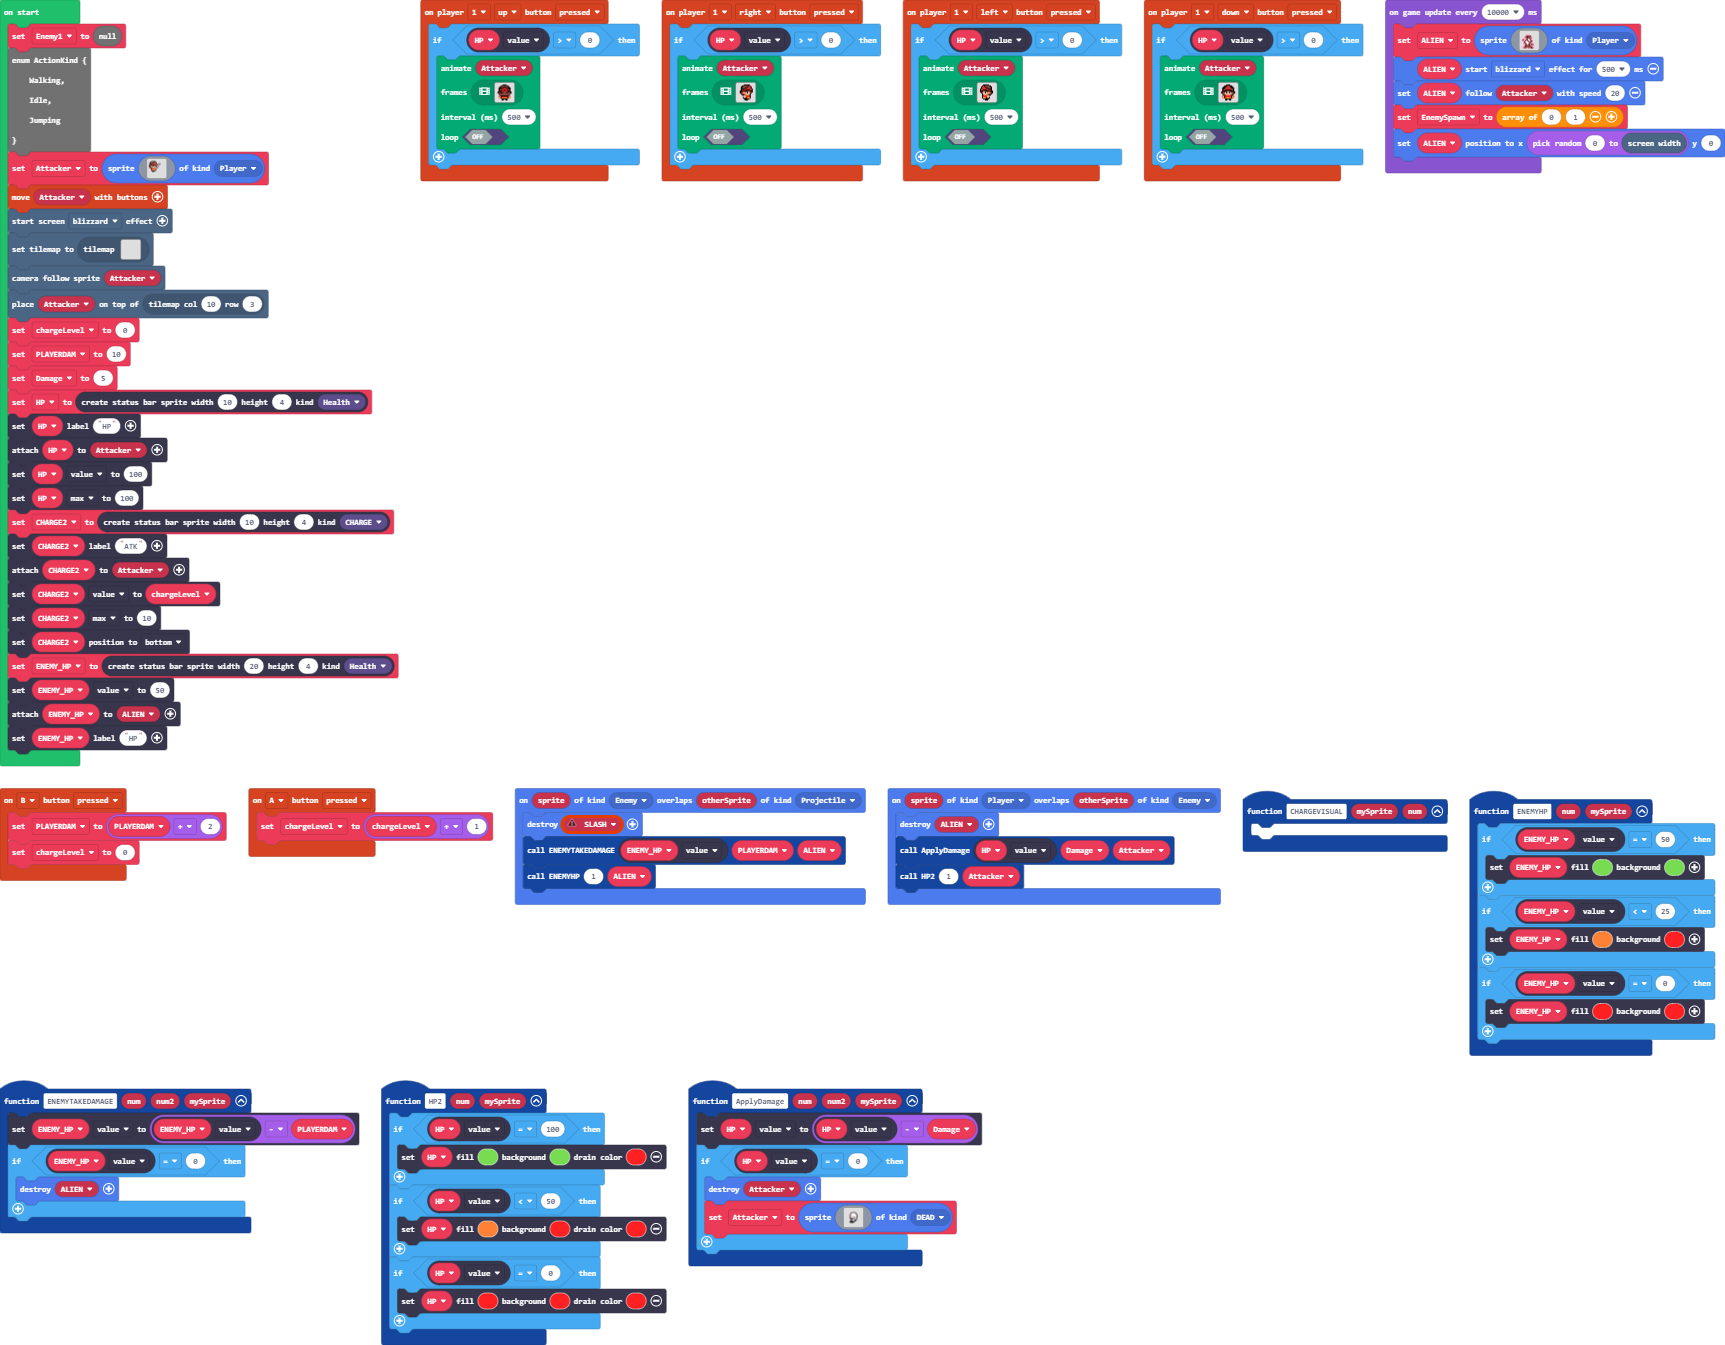
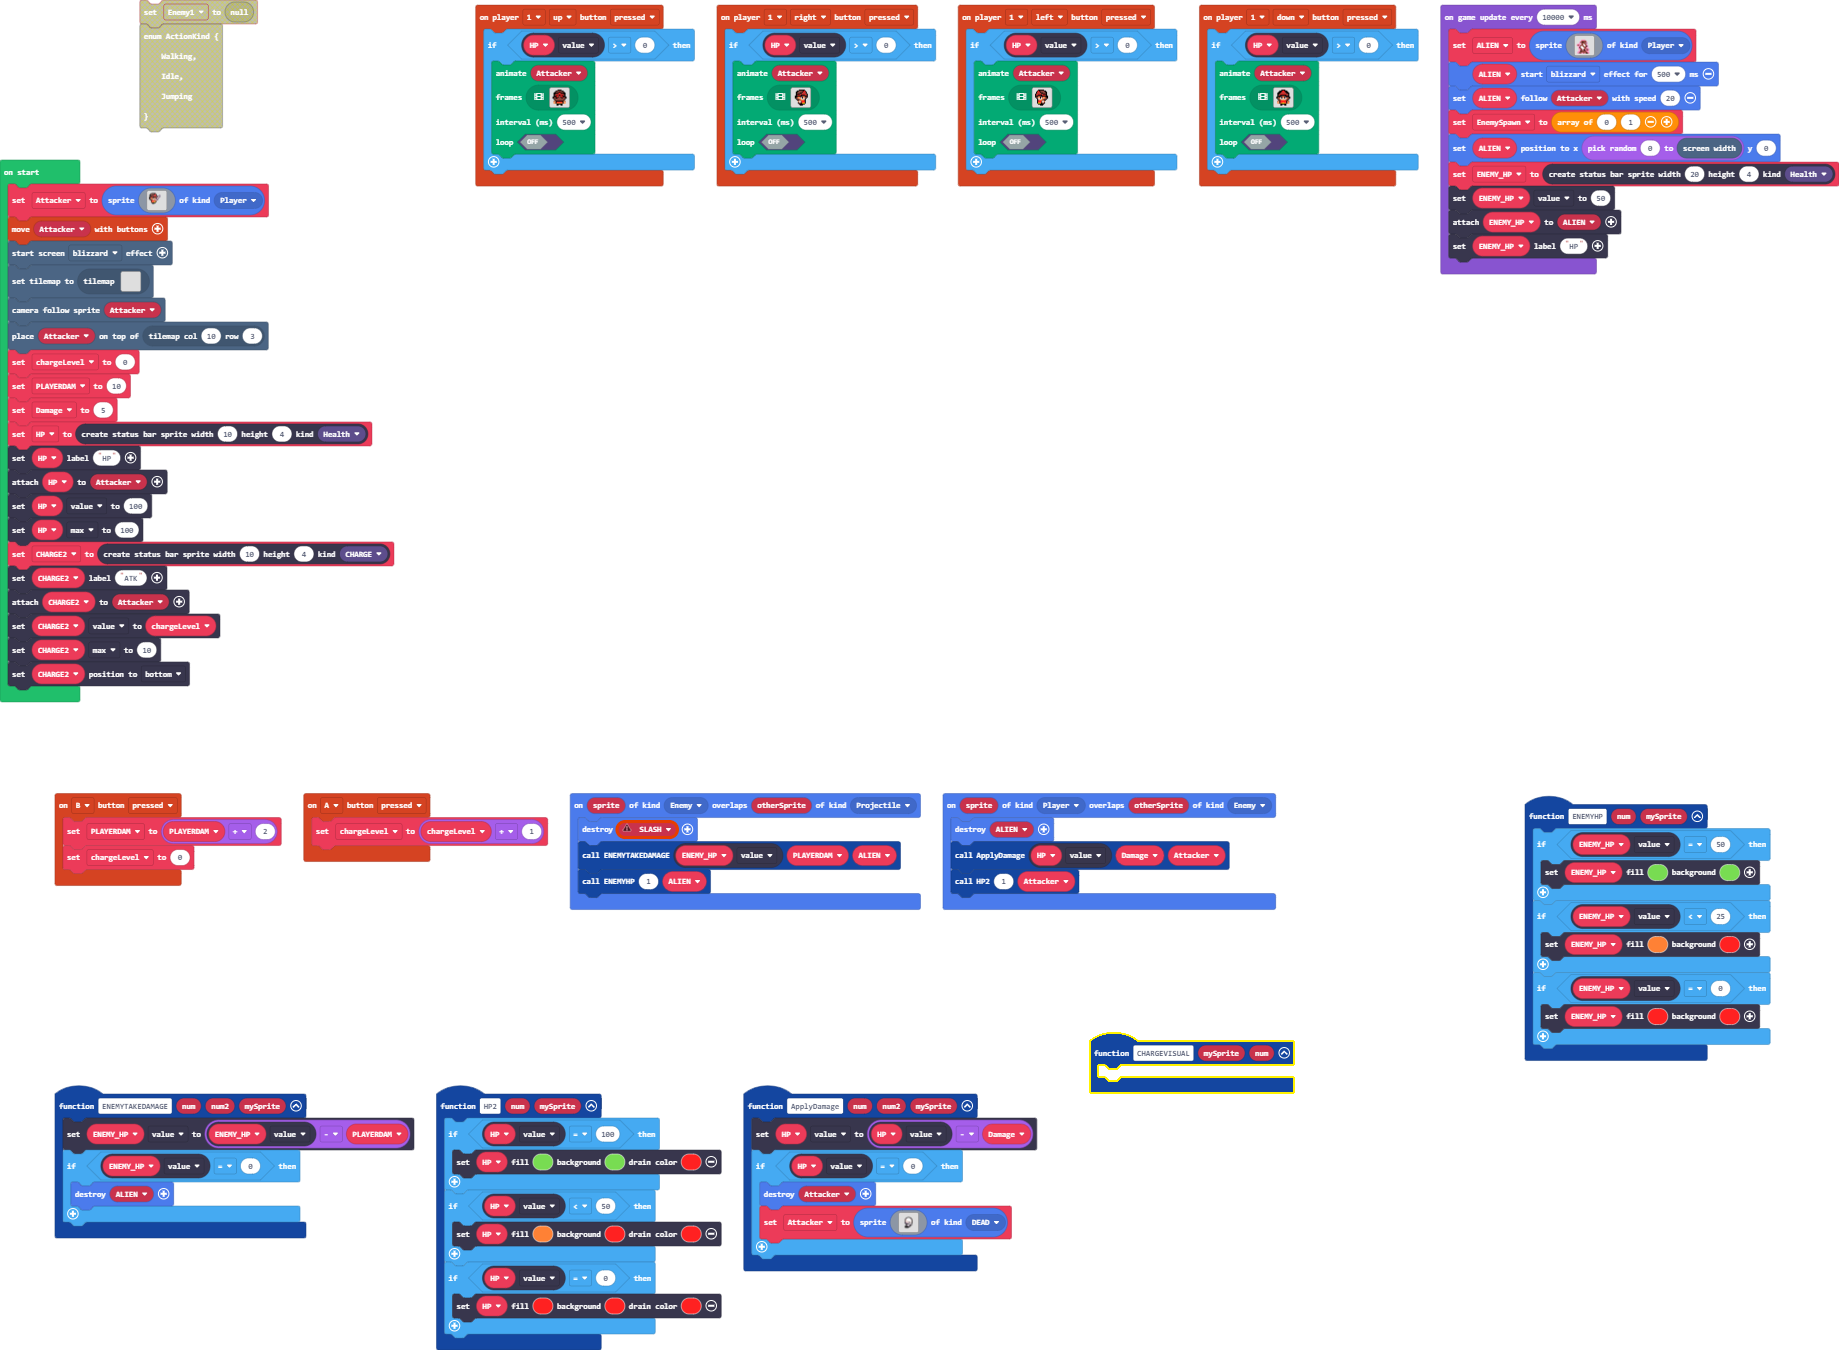
Update main.blocks, main.ts, tilemap.g.jres, tilemap.g.ts

diff --git a/tilemap.g.ts b/tilemap.g.ts
@@ -43,6 +43,25 @@ namespace myTiles {
 . . . . . . . . . . . . . . . . 
 . . . . . . . . . . . . . . . . 
 `, [myTiles.transparency16], TileScale.Sixteen);
+            case "level4":
+            case "level4":return tiles.createTilemap(hex`1000100000000000000000000000000000000000000000000000000000000000000000000000000000000000000000000000000000000000000000000000000000000000000000000000000000000000000000000000000000000000000000000000000000000000000000000000000000000000000000000000000000000000000000000000000000000000000000000000000000000000000000000000000000000000000000000000000000000000000000000000000000000000000000000000000000000000000000000000000000000000000000000000000000000000000000000000000000000000000000000000000000000000000000000000000000000000`, img`
+. . . . . . . . . . . . . . . . 
+. . . . . . . . . . . . . . . . 
+. . . . . . . . . . . . . . . . 
+. . . . . . . . . . . . . . . . 
+. . . . . . . . . . . . . . . . 
+. . . . . . . . . . . . . . . . 
+. . . . . . . . . . . . . . . . 
+. . . . . . . . . . . . . . . . 
+. . . . . . . . . . . . . . . . 
+. . . . . . . . . . . . . . . . 
+. . . . . . . . . . . . . . . . 
+. . . . . . . . . . . . . . . . 
+. . . . . . . . . . . . . . . . 
+. . . . . . . . . . . . . . . . 
+. . . . . . . . . . . . . . . . 
+. . . . . . . . . . . . . . . . 
+`, [myTiles.transparency16], TileScale.Sixteen);
             case "level1":
             case "level1":return tiles.createTilemap(hex`1000100000000000000000000000000000000000000000000000000000000000000000000000000000000000000000000000000000000000000000000000000000000000000000000000000000000000000000000000000000000000000000000000000000000000000000000000000000000000000000000000000000000000000000000000000000000000000000000000000000000000000000000000000000000000000000000000000000000000000000000000000000000000000000000000000000000000000000000000000000000000000000000000000000000000000000000000000000000000000000000000000000000000000000000000000000000000`, img`
 . . . . . . . . . . . . . . . . 

diff --git a/main.ts b/main.ts
@@ -405,12 +405,6 @@ let Damage = 0
 let PLAYERDAM = 0
 let chargeLevel = 0
 let Attacker: Sprite = null
-let Enemy1 = null
-enum ActionKind {
-    Walking,
-    Idle,
-    Jumping
-}
 Attacker = sprites.create(img`
     ........................
     ....ffffff..............
@@ -456,10 +450,6 @@ CHARGE2.attachToSprite(Attacker)
 CHARGE2.value = chargeLevel
 CHARGE2.max = 10
 CHARGE2.positionDirection(CollisionDirection.Bottom)
-ENEMY_HP = statusbars.create(20, 4, StatusBarKind.Health)
-ENEMY_HP.value = 50
-ENEMY_HP.attachToSprite(ALIEN)
-ENEMY_HP.setLabel("HP")
 game.onUpdateInterval(10000, function () {
     ALIEN = sprites.create(img`
         . . . . . . . . . . . . . . . . 
@@ -483,4 +473,8 @@ game.onUpdateInterval(10000, function () {
     ALIEN.follow(Attacker, 20)
     EnemySpawn = [0, 1]
     ALIEN.setPosition(randint(0, scene.screenWidth()), 0)
+    ENEMY_HP = statusbars.create(20, 4, StatusBarKind.Health)
+    ENEMY_HP.value = 50
+    ENEMY_HP.attachToSprite(ALIEN)
+    ENEMY_HP.setLabel("HP")
 })
